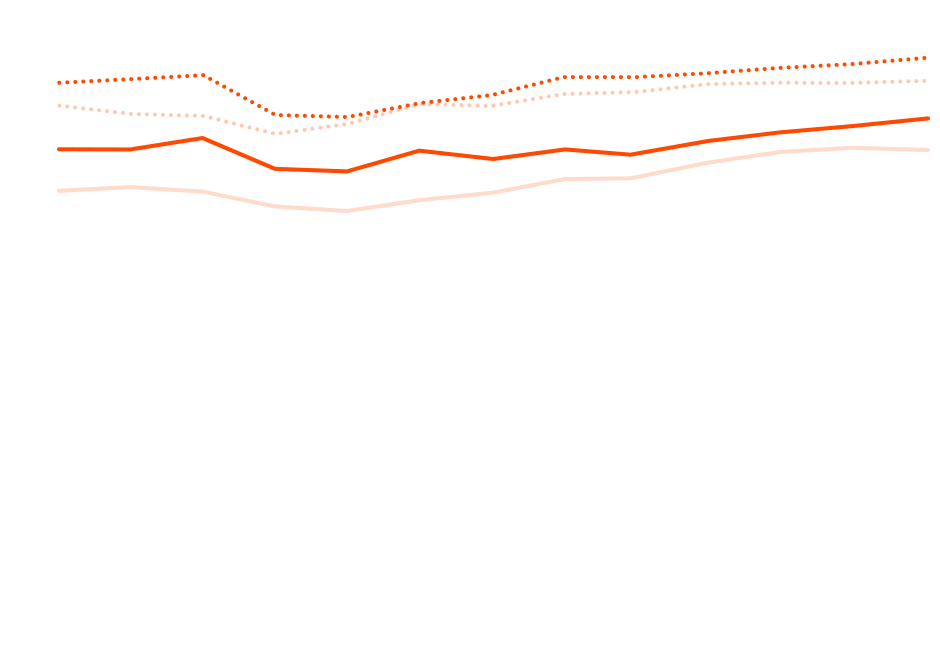
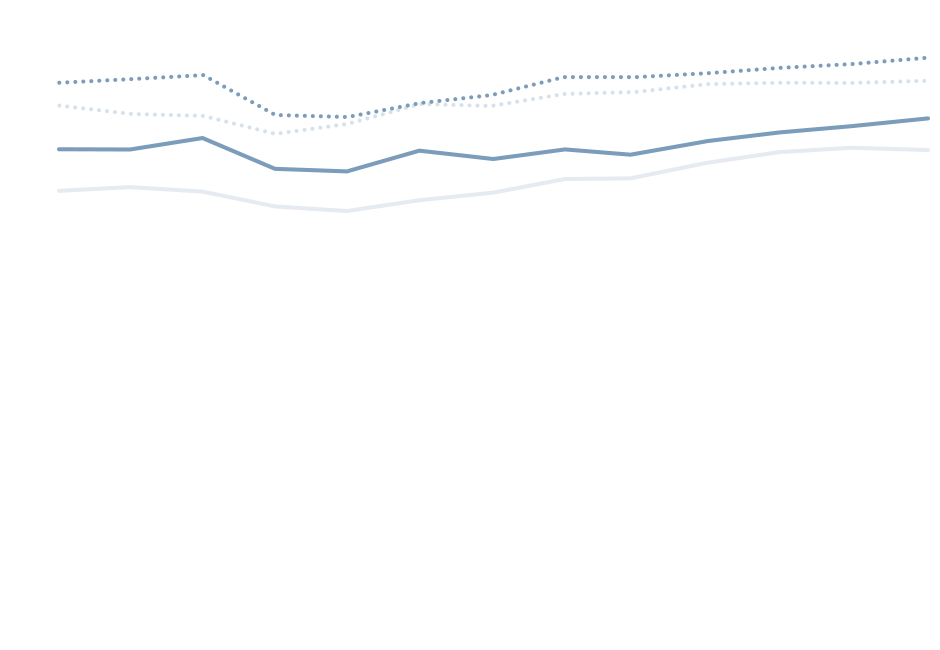
Farbanpassungen Evernote
Hintergrund, Weltkarte, Graphen, Legenden,…

diff --git a/script.js b/script.js
@@ -1,5 +1,5 @@
 var newsListe = [
-	"<i>Raw Oil: <b>$&thinsp;48,97<b></i> <span style = 'color: #29cc29'>▼</span>"
+	"<i>Raw Oil: <b>$&thinsp;48,97<b></i> <span style = 'color: #a6eb00'>▼</span>"
 ]
 
 var newsListeNummer = 1
@@ -108,6 +108,7 @@ $(document).ready(function(){
 
 		// disable popup
 		$("#popup").stop(true).animate({"opacity": 0}, duration = 500)
+		$("#closeBtn").css({"opacity": 0})
 		$("#popup").css({"pointer-events" : "none"})
 		hideExtended()
 
@@ -282,6 +283,7 @@ $(document).ready(function(){
 
 			$("#mapDiv").addClass("blur blurwhite");
 			$("body").addClass("hideNav");
+			$("#closeBtn").css({"opacity": 0.5})
 			//console.log($(this).attr("data-infoId"))
 
 			var x = parseFloat($(this).attr("data-x"))
@@ -318,6 +320,7 @@ $(document).ready(function(){
 			});
 
 			$("#popup").stop(true).animate({"opacity": 1}, {duration: 500, queue: false})
+			$("#closeBtn").css({"opacity": 0.3})
 			$("#popup").css({"pointer-events" : "auto"})
 			$("#popup").css({"background-position" : "-210px -60px", "background-size": "1024px"})
 			$("#popup").animate({"background-size": "2048px", "background-position-x" : (-x*2+322) + "px", "background-position-y": (-y*2+85+mapMarginDefault) + "px"}, {duration: 700, queue: false})
@@ -1060,7 +1063,7 @@ $(document).ready(function(){
 			})
 			$("#extraLine").hide()
 
-			$("#techLegend").html("<abc style = 'color: #29cc29; font-size: 14pt'></abc>production <abc style = 'color: #ffca00; font-size: 14pt; margin-left: 20px'></abc>product change over <abc style = 'color: #cc2929; font-size: 14pt; margin-left: 20px'></abc>maintenance")
+			$("#techLegend").html("<abc style = 'color: #a6eb00; font-size: 14pt'></abc>production <abc style = 'color: #ffe44e; font-size: 14pt; margin-left: 20px'></abc>product change over <abc style = 'color: #cc2929; font-size: 14pt; margin-left: 20px'></abc>maintenance")
 
 		} else if (number == 2){
 			// finished products
@@ -1580,7 +1583,7 @@ for (var f = 0; f < 4; f++) {
 
 
 var tableHeads = [
-	["PE", "PP", "Additive A", "Additive B", "Premix", "GF", "CaCo3"],
+	["PE", "PP", "Additive A", "Additive B", "Premix", "GF", "CaCo₃"],
 	[productionDates[0].getDate() + "." + parseInt(productionDates[0].getMonth()+1) + ". – " + productionDates[1].getDate() + "." + parseInt(productionDates[1].getMonth()+1) + ".", productionDates[2].getDate() + "." + parseInt(productionDates[2].getMonth()+1) + ". – " + productionDates[3].getDate() + "." + parseInt(productionDates[3].getMonth()+1)+ ".", productionDates[4].getDate() + "." + parseInt(productionDates[4].getMonth()+1) + ". – " + productionDates[5].getDate() + "." + parseInt(productionDates[5].getMonth()+1)+ ".", productionDates[6].getDate() + "." + parseInt(productionDates[6].getMonth()+1) + ". – " + productionDates[7].getDate() + "." +parseInt( productionDates[7].getMonth()+1)+ "."],
 	["Recipe 1", "Recipe 2", "Recipe 3", "Recipe 4", "Recipe 5"],
 	["Availability", "Ø product change over [min.]", "maintenance", "scrap rate", "customer complaints"],
@@ -1680,8 +1683,8 @@ var recipes = [
 
 var recipeValues = [
 	//PE, PP, Additive PG, Additive GS, Premix, GF, CaCO3,  >> Durchsatz
-	[1675, 0, 75, 0, 0, 0, 750, "2500 kg/h"],
-	[0, 1222, 0, 0, 780, 0, 1300, "2600 kg/h"],
+	[1675, 0, 75, 0, 0, 0, 750, "2.500 kg/h"],
+	[0, 1222, 0, 0, 780, 0, 1300, "2.600 kg/h"],
 	[0, 1410, 0, 90, 0, 1500, 0, "3.000 kg/h"],
 	[0, 1876, 0, 84, 0, 840, 0, "2.800 kg/h"],
 	[0, 2262, 0, 78, 0, 260, 0, "2.600 kg/h"]
@@ -1882,7 +1885,7 @@ var apiData = {
 		var currentCount = 3;
 
 		var newsListeTemp = [
-			"<i>Raw Oil: <b>$&thinsp;48,97<b></i> <span style = 'color: #29cc29'>▼</span>",
+			"<i>Raw Oil: <b>$&thinsp;48,97<b></i> <span style = 'color: #a6eb00'>▼</span>",
 			"hdf <b>#coperion</b> euer stand ist so klasse"
 		]
 

diff --git a/style_network.css b/style_network.css
@@ -196,7 +196,7 @@ time{
 	right: 0;
 	bottom: 0;
 	left:0;
-	background-color: rgba(255,255,255,0.5);
+	background-color: rgba(240,240,240,0.5);
 	content: " ";
 	z-index: 3;
 }
@@ -343,7 +343,7 @@ time{
 }
 
 dot{
-	color: #29cc29;
+	color: #a6eb00;
 	font-size: 26pt;
 	line-height: 0.1em;
 	margin: 5px;
@@ -552,14 +552,15 @@ ul#btns2 {
 	color: #2e2e2e;
 }
 
-#popup #closeBtn{
+#closeBtn{
 	position: absolute;
 	left: -5px;
-	top: -33px;
+	top: 45px;
 	padding: 20px;
 	font-size: 22pt;
 	line-height: 20px;
-	opacity: 0.3;
+	opacity: 0;
+	z-index: 1;
 }
 
 #popup ul{
@@ -761,39 +762,39 @@ ul#btns2 {
 }
 .lineR.active{
 	color: white;
-	background-color: #ff4a00;
+	background-color: #7c9cbb;
 }
 .lineG.active{
 	color: white;
-	background-color: #6eb300;
+	background-color: #a6eb00;
 }
 .lineB.active{
 	color: white;
-	background-color: #3782e5;
+	background-color: #808080;
 }
 .lineY.active{
 	color: white;
-	background-color: #ffbe00;
+	background-color: #97bee6;
 }
 .lineR{
 	color: black;
 	background-color: rgba(0,0,0,0);
-	border: 1px solid #ff4a00;
+	border: 1px solid #7c9cbb;
 }
 .lineG{
 	color: black;
 	background-color: rgba(0,0,0,0);
-	border: 1px solid #6eb300;
+	border: 1px solid #a6eb00;
 }
 .lineB{
 	color: black;
 	background-color: rgba(0,0,0,0);
-	border: 1px solid #3782e5;
+	border: 1px solid #808080;
 }
 .lineY{
 	color: black;
 	background-color: rgba(0,0,0,0);
-	border: 1px solid #ffbe00;
+	border: 1px solid #97bee6;
 }
 
 
@@ -894,7 +895,7 @@ ul#btns2 {
 	width: 100%;
 	--height: 620px;
 	height: calc(100% - 135px);
-	background-color: rgba(255,255,255,0.5);
+	background-color: rgba(240,240,240,0.5);
 	position: absolute;
 	pointer-events: none;
 	margin-top: 700px;
@@ -1075,11 +1076,11 @@ ul#btns2 {
 }
 
 .productionTime{
-	background-color: #29cc29;
+	background-color: #a6eb00;
 	font-weight: normal;
 }
 .rystTime{
-	background-color: #ffca00;
+	background-color: #ffe44e;
 }
 .waitingTime{
 	background-color: #cc2929;
@@ -1128,7 +1129,7 @@ ul#btns2 {
 }*/
 
 .productionTime.darkenToday{
-	background-color: #00bb00;
+	background-color: #8dc602;
 }
 .rystTime.darkenToday{
 	background-color: #e6ac00;
@@ -1240,9 +1241,9 @@ ul#btns2 {
 	right: 0px;
 	bottom: 0px;
 	width: calc(100% - 130px*6);
-	height: 59px;
+	height: 60px;
 	background-color: #fafafa;
-	border-top: 1px solid #ccc;
+	/*border-top: 1px solid #ccc;*/
 	overflow: hidden;
 	z-index: 20;
 	-webkit-transition: all 400ms; 
@@ -1406,7 +1407,7 @@ ul#btns2 {
 	top: 75px;
 	width: 100%;
 	height: calc(100% - 125px);
-	background-color: rgba(255,255,255,0.75);
+	background-color: rgba(240,240,240,0.5);
 	display: none;
 	margin-top: 700px;
 }

diff --git a/index.html b/index.html
@@ -87,7 +87,7 @@
 		</div class = "mapInfo">
 
 		<div id="mapLegend">
-			<abc style = 'color: #29cc29; font-size: 14pt'></abc>in production <abc style = 'color: #ffca00; font-size: 14pt; margin-left: 20px'></abc>organisational downtime <abc style = 'color: #cc2929; font-size: 14pt; margin-left: 20px'></abc>no operation
+			<abc style = 'color: #a6eb00; font-size: 14pt'></abc>in production <abc style = 'color: #ffe44e; font-size: 14pt; margin-left: 20px'></abc>organisational downtime <abc style = 'color: #cc2929; font-size: 14pt; margin-left: 20px'></abc>no operation
 		</div>
 	</div>
 
@@ -95,10 +95,10 @@
 		<li data-btn = 1><img src = "img/radio_on.png" width = 30px> performance</li>
 		<li data-btn = 2><img src = "img/radio_off.png" width = 30px> commodity price</li>
 	</ul> -->
-
+<p id = "closeBtn"> × </p>
 	<div id = "popup">
 		<h2> Welcome to Africa </h2>
-		<p id = "closeBtn"> × </p>
+		
 		<div style = "width: 1000px">
 			<h3 class = "preselected" data-btn = 4> Raw Material </h3>
 			<h3 data-btn = 5> Production Plan </h3>
